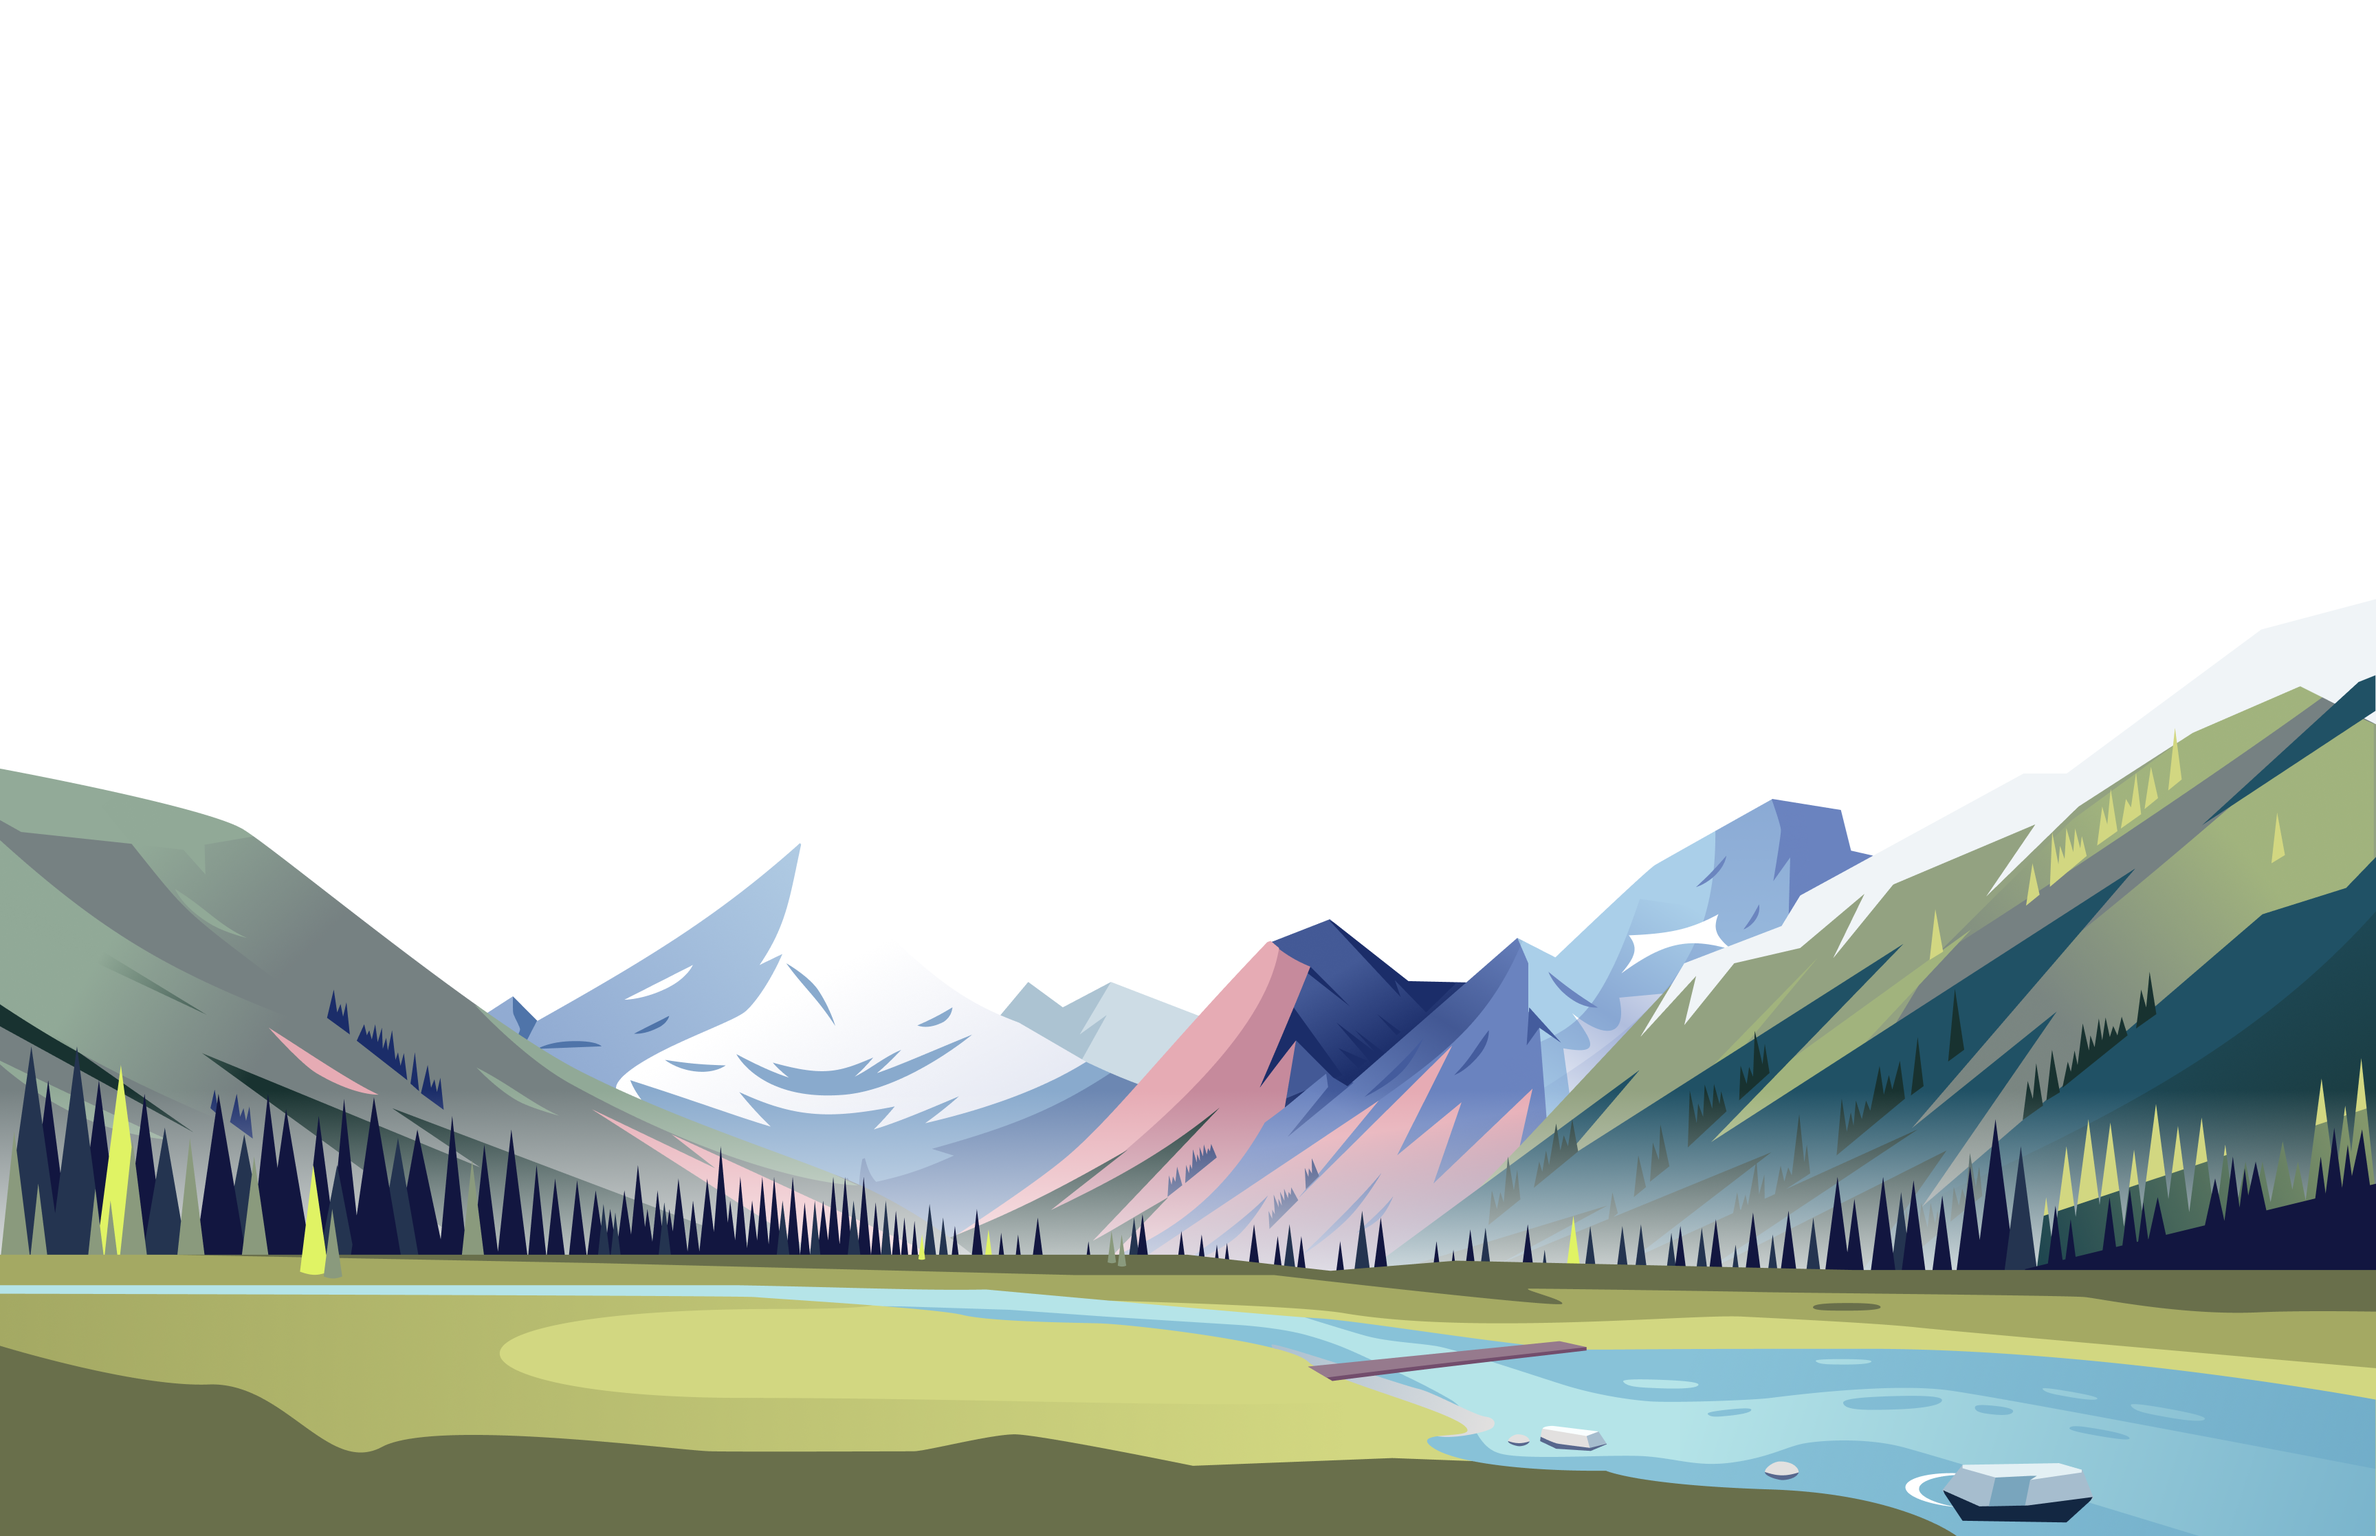
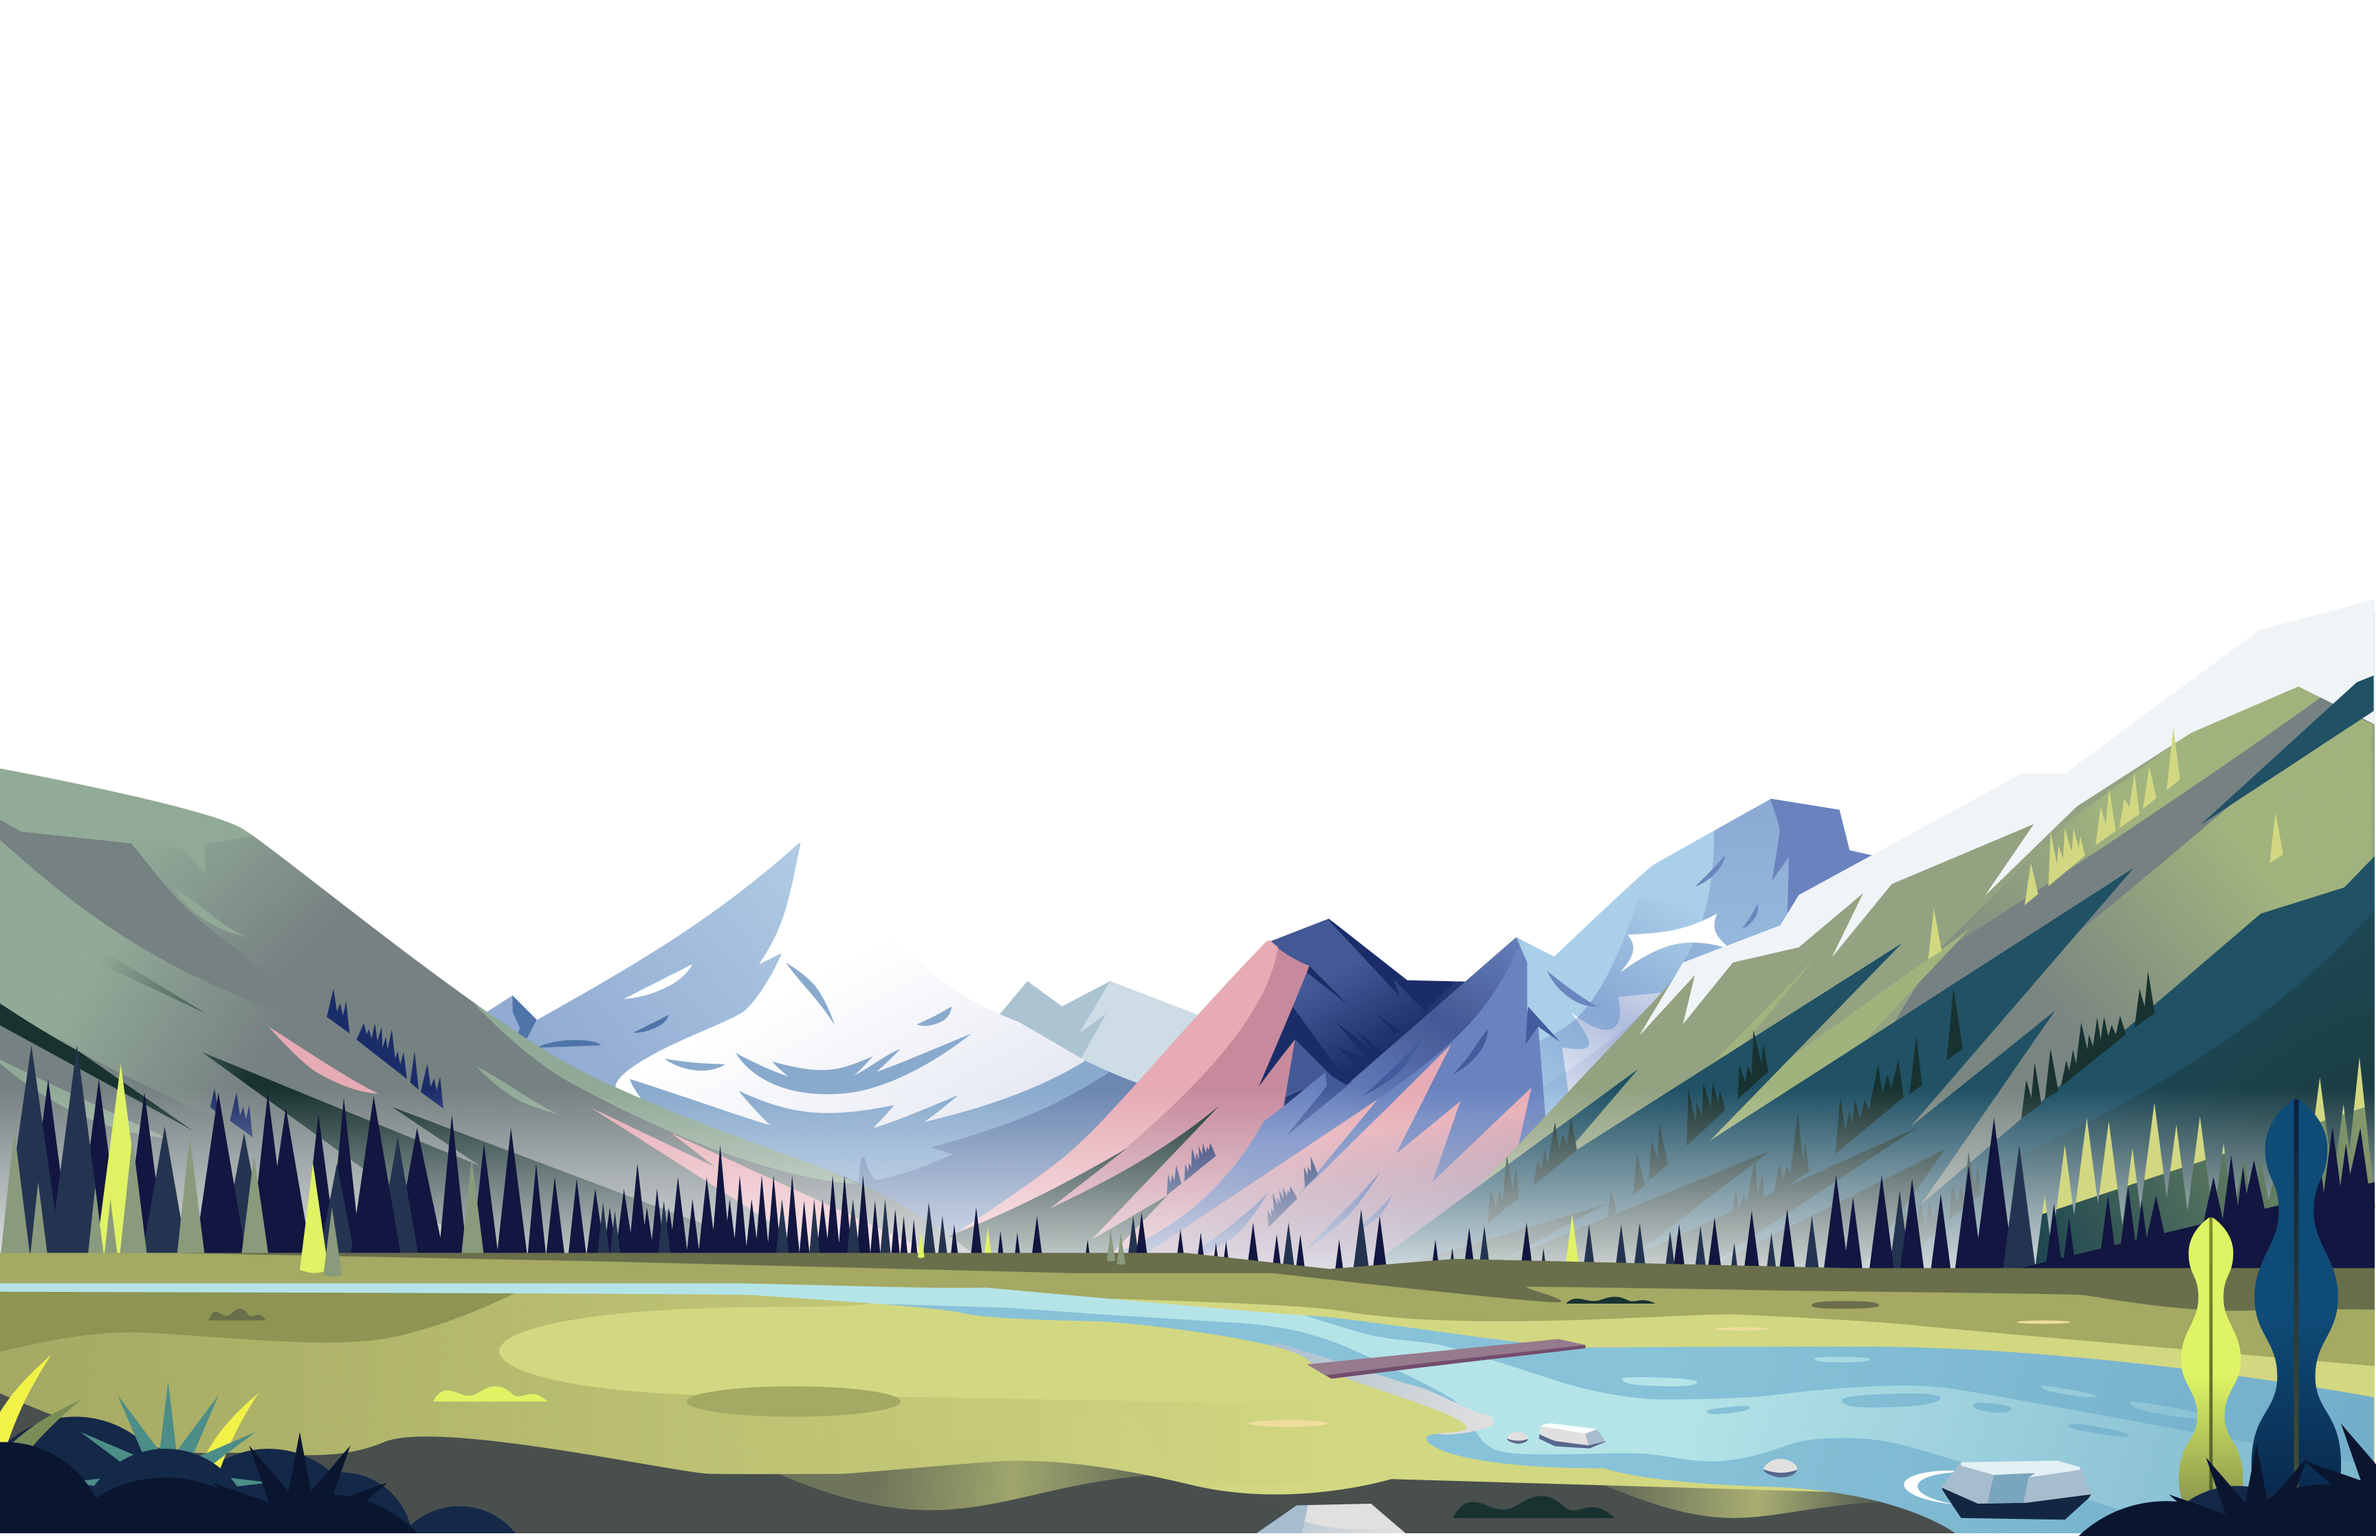
Began transition away from hard-coding
- Renamed SceneSounds to SceneData and added graphics data
- Updated foreground and added a new cloud layer to mountain scene
- Added a SceneLooper to loop tiling images (clouds)

diff --git a/src/components/SceneData.jsx b/src/components/SceneData.jsx
@@ -1,0 +1,43 @@
+import SceneLooper from './SceneLooper';
+
+import MusicNoteIcon from '@mui/icons-material/MusicNote';
+import EmojiNatureIcon from '@mui/icons-material/EmojiNature';
+import LocalFireDepartmentIcon from '@mui/icons-material/LocalFireDepartment';
+import WaterIcon from '@mui/icons-material/Water';
+
+const pathStart = process.env.PUBLICURL;
+
+export const scenes = [
+  'mountain',
+  'sea'
+]
+
+export const sceneGraphics = {
+  'mountain': {
+    gradient: 'linear-gradient(180deg, #C6D5E0 24%, #ECF1DF 50%)',
+    layers: [
+      { alt: 'mountain scene foreground', height: '0',   motion: 'static', speed: '0',    src: pathStart + '/assets/scenes/mountain/foreground.png' },
+      { alt: 'mountain scene cloud 1',    height: '-50', motion: 'loop', speed: '90s',  src: pathStart + '/assets/scenes/mountain/midground.png' },
+      { alt: 'mountain scene cloud 2',    height: '-50', motion: 'loop', speed: '120s', src: pathStart + '/assets/scenes/mountain/midground2.png' },
+      { alt: 'mountain scene cloud layer top', height: '-75', motion: 'loop', speed: '40s', src: pathStart + '/assets/scenes/mountain/background.png' }
+    ]
+  },
+  'sea': {
+    gradient: 'linear-gradient(180deg, #A8D2C0 0%, #E0F1ED 51.04%)',
+    layers: [
+      { alt: 'sea scene foreground', height: '0', motion: 'static', speed: '0', src: pathStart + '/assets/scenes/sea/foreground.png' },
+      { alt: 'sea scene cloud 1', height: '-50', motion: 'loop', speed: '90s', src: pathStart + '/assets/scenes/sea/midground.png' },
+      { alt: 'sea scene cloud 2', height: '-50', motion: 'loop', speed: '120s', src: pathStart + '/assets/scenes/sea/midground2.png' },
+      { alt: 'sea scene cloud layer top', height: '-75', motion: 'loop', speed: '40s', src: pathStart + '/assets/scenes/sea/background.png' }
+    ]
+  }
+}
+
+export const sceneSounds = {
+  "mountain": [
+    { name: "music", icon: <MusicNoteIcon color="primary" />, maxVolume: 0.5, defaultVolume: 0.2, soundFile: "music/9272.mp3" },
+    { name: "babbling brook", icon: <WaterIcon color="primary" />, maxVolume: 1, defaultVolume: 0.4, soundFile: "sounds/mountain/storm_drain.mp3" },
+    { name: "crickets chirping", icon: <EmojiNatureIcon color="primary" />, maxVolume: 1, defaultVolume: 0.7, soundFile: "sounds/mountain/afternoon_crickets_long.mp3" },
+    { name: "fire crackling", icon: <LocalFireDepartmentIcon color="primary" />, maxVolume: 0.8, defaultVolume: 0.2, soundFile: "sounds/mountain/daytime_forrest_bonfire.mp3" },
+  ]
+}

diff --git a/src/components/Scene.jsx b/src/components/Scene.jsx
@@ -1,23 +1,31 @@
 import React from 'react';
 import RightPanel from './RightPanel';
+import SceneLooper from './SceneLooper';
+
+import { sceneGraphics } from './SceneData';
+
 import './Scene.css';
 
 // Displays the scene, and determines what the Music and Mixer options are
 
-const backgroundGradient = {
-  // background: 'linear-gradient(180deg, #C5B9DF 23.96%, #F1E1DF 50.52%)',
-  background: 'linear-gradient(180deg, #C6D5E0 24%, #ECF1DF 50%)',
-  backgroundSize: 'cover',
-  backgroundRepeat: 'no-repeat',
-  position: 'absolute',
-  top: 0,
-  left: 0,
-  width: '100vw',
-  height: '100vh'
-}
+
 
 function Scene() {
   const [scene, setScene] = React.useState('mountain');
+
+  const backgroundGradient = {
+    background: sceneGraphics[scene].gradient,
+    backgroundSize: 'cover',
+    backgroundRepeat: 'no-repeat',
+    position: 'absolute',
+    top: 0,
+    left: 0,
+    width: '100vw',
+    height: '100vh'
+  }
+
+  //TODO: pull scene data and generate component
+  
 
   return ( 
     <div id="wrapper">
@@ -27,13 +35,10 @@ function Scene() {
       <div id='skycolor' style={backgroundGradient}>
         <img id='foreground' alt="Mountain scene foreground" src={process.env.PUBLIC_URL + '/assets/scenes/mountain/foreground.png'} />
 
-        <img id='midground' alt="Cloud layer" src={process.env.PUBLIC_URL + '/assets/scenes/mountain/midground.png'} />
-        <img id='midground2' alt="Cloud layer" src={process.env.PUBLIC_URL + '/assets/scenes/mountain/midground.png'} />
-        <img id='midground3' alt="Cloud layer" src={process.env.PUBLIC_URL + '/assets/scenes/mountain/midground.png'} />
-        <img id='midground4' alt="Cloud layer" src={process.env.PUBLIC_URL + '/assets/scenes/mountain/midground.png'} />
+        <SceneLooper imagePath='/assets/scenes/mountain/midground.png' zIndex='-50' speed='90s'/>
+        <SceneLooper imagePath='/assets/scenes/mountain/midground2.png' zIndex='-50' speed='120s' />
 
-        <img id='background' alt="Top cloud layer" src={process.env.PUBLIC_URL + '/assets/scenes/mountain/background.png'} />
-        <img id='background2' alt="Top cloud layer" src={process.env.PUBLIC_URL + '/assets/scenes/mountain/background.png'} />
+        <SceneLooper imagePath='/assets/scenes/mountain/background.png' zIndex='-75' speed='40s' />
       </div>
     </div>
   );

diff --git a/src/components/Scene.css b/src/components/Scene.css
@@ -22,96 +22,3 @@
   width: 100vw;
   height: 100vh;
 }
-
-@keyframes motion {
-  from {
-    transform: translateX(0%);
-  }
-  to {
-    transform: translateX(-100%);
-  }
-}
-
-@keyframes motionStaggered {
-  from {
-    transform: translateX(100%);
-  }
-  to {
-    transform: translateX(0%);
-  }
-}
-
-#midground {
-  z-index:-50;
-  background-position: center;
-  background-size: cover;
-  position: absolute;
-  animation: motion 90s infinite linear;
-  top: 0;
-  left: 0;
-  width: 100vw;
-  height: 100vh;
-}
-
-#midground2 {
-  transform: translateX(100%);
-  z-index:-50;
-  background-position: center;
-  background-size: cover;
-  position: absolute;
-  animation: motionStaggered 90s infinite linear;
-  top: 0;
-  left: 0;
-  width: 100vw;
-  height: 100vh;
-}
-
-#midground3 {
-  z-index:-50;
-  background-position: center;
-  background-size: cover;
-  position: absolute;
-  animation: motion 120s infinite linear;
-  top: 0;
-  left: 0;
-  width: 100vw;
-  height: 100vh;
-}
-
-#midground4 {
-  transform: translateX(100%);
-  z-index:-50;
-  background-position: center;
-  background-size: cover;
-  position: absolute;
-  animation: motionStaggered 120s infinite linear;
-  top: 0;
-  left: 0;
-  width: 100vw;
-  height: 100vh;
-}
-
-#background{
-  z-index:-75;
-  background-position: center;
-  background-size: cover;
-  position: absolute;
-  animation: motion 40s infinite linear;
-  top: 0;
-  left: 0;
-  width: 100vw;
-  height: 100vh;
-}
-
-#background2{
-  transform: translateX(100%);
-  z-index:-75;
-  background-position: center;
-  background-size: cover;
-  position: absolute;
-  animation: motionStaggered 40s infinite linear;
-  top: 0;
-  left: 0;
-  width: 100vw;
-  height: 100vh;
-}

diff --git a/src/components/SceneLooper.jsx b/src/components/SceneLooper.jsx
@@ -1,0 +1,40 @@
+import React from 'react';
+
+import './SceneLooper.css';
+
+function SceneLooper({ imagePath, zIndex, speed }) {
+
+  const layer1Animate = {
+    zIndex: zIndex,
+    backgroundPosition: 'center',
+    backgroundSize: 'cover',
+    position: 'absolute',
+    animation: 'motion ' + speed + ' infinite linear',
+    top: '0',
+    left: '0',
+    width: '100vw',
+    height: '100vh'
+  }
+
+  const layer2Animate = {
+    transform: 'translateX(100%)',
+    zIndex: zIndex,
+    backgroundPosition: 'center',
+    backgroundSize: 'cover',
+    position: 'absolute',
+    animation: 'motionStaggered ' + speed + ' infinite linear',
+    top: '0',
+    left: '0',
+    width: '100vw',
+    height: '100vh'
+  }
+
+  return ( 
+    <div>
+      <img style={layer1Animate} id='layer' alt="Animated background layer for scene" src={process.env.PUBLIC_URL + imagePath}/>
+      <img style={layer2Animate} id='layerTiled' alt="Animated background layer for scene" src={process.env.PUBLIC_URL + imagePath}/>
+    </div> 
+  );
+}
+
+export default SceneLooper;

diff --git a/src/components/Mixer/Mixer.jsx b/src/components/Mixer/Mixer.jsx
@@ -7,7 +7,7 @@ import IconButton from '@mui/material/IconButton';
 import ArrowBackIosRoundedIcon from '@mui/icons-material/ArrowBackIosRounded';
 import SaveRoundedIcon from '@mui/icons-material/SaveRounded';
 import SoundSlider from './SoundSlider';
-import { sceneSounds } from '../SceneSounds';
+import { sceneSounds } from '../SceneData';
 
 import './Mixer.css';
 

diff --git a/src/components/SceneLooper.css b/src/components/SceneLooper.css
@@ -1,0 +1,17 @@
+@keyframes motion {
+  from {
+    transform: translateX(0%);
+  }
+  to {
+    transform: translateX(-100%);
+  }
+}
+
+@keyframes motionStaggered {
+  from {
+    transform: translateX(100%);
+  }
+  to {
+    transform: translateX(0%);
+  }
+}
